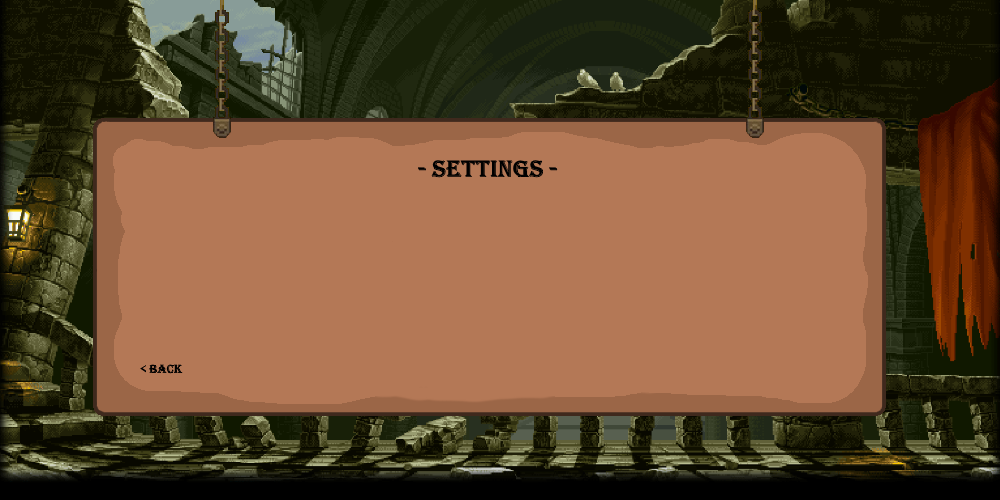
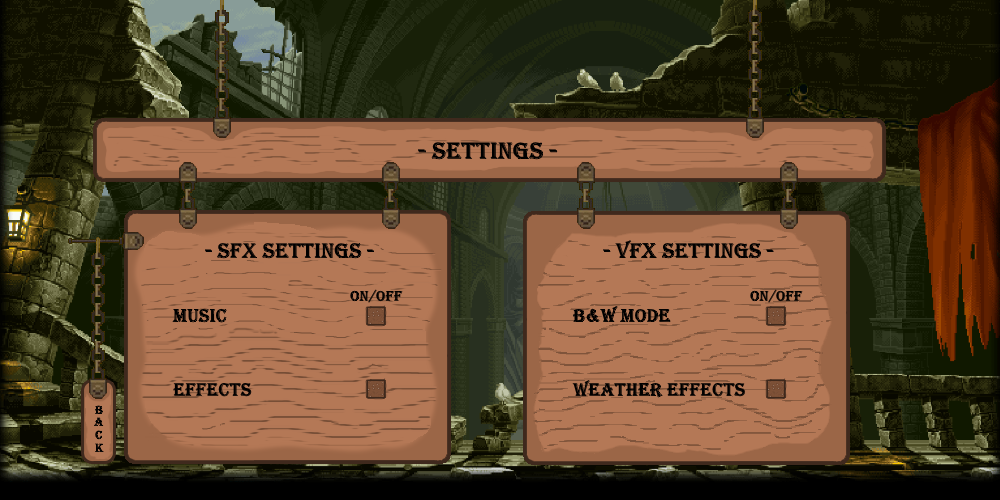
Images: Settings menu en losse settings knoppen Code: Codering voor terug knop in settings menu + preloaden images

diff --git a/script.js b/script.js
@@ -279,7 +279,7 @@ function setup() {
 
   if (localStorage.getItem('player_height') != null){
     saved_x = Math.floor(localStorage.getItem('player_x'))
-    saved_height = localStorage.getItem('player_height')
+    saved_height = 10900
   }
   
   
@@ -416,6 +416,10 @@ function preload(){
   menu1_3 = loadImage('images/menu/menu1_3.png')
   menu2 = loadImage('images/menu/menu2.png')
   menu2_1 = loadImage('images/menu/menu2_1.png')
+  menu2_2 = loadImage('images/menu/menu2_2.png')
+  menu2_3 = loadImage('images/menu/menu2_3.png')
+  menu2_4 = loadImage('images/menu/menu2_4.png')
+  menu2_5 = loadImage('images/menu/menu2_5.png')
   menu3 = loadImage('images/menu/menu3.png')
   menu3_1 = loadImage('images/menu/menu3_1.png')
   song = loadSound('sounds/of.mp3')
@@ -453,11 +457,23 @@ function draw() {
 
   if (game_state == "settings"){
     background(menu2);
-    if(mouseX > 130 && mouseX < 190){
-      if(mouseY > 360 && mouseY < 375){
+    if(mouseX > 80 && mouseX < 115){
+      if(mouseY > 380 && mouseY < 465){
         background(menu2_1)
       }
     }
+   // if(music == "off"){
+    //  image(menu2_2, 0, 0);
+    //}
+   // if(sound_effects == "on"){
+      
+  //  }
+  //  if(bwmode == "on"){
+      
+ //   }
+//    if(weather_effects == "on"){
+      
+//    }
   }
 
   if (game_state == "credits"){
@@ -518,11 +534,18 @@ function mousePressed() {
       game_state = "startscreen"
     }
   }
-  if(mouseX > 130 && mouseX < 190 && game_state == "settings"){
-    if(mouseY > 360 && mouseY < 375){
+  if(mouseX > 80 && mouseX < 115 && game_state == "settings"){
+    if(mouseY > 380 && mouseY < 465){
       game_state = "startscreen"
     }
   }
+ // if(mouseX > 365 && mouseX < 385 && game_state == "settings"){
+   // if(mouseY > 305 && mouseY < 325){
+   //   music = "off"
+   // }else{
+  //    music = "on"
+  //  }
+ // }
 }
 
 function blockAnimation(){
@@ -607,6 +630,12 @@ function keyPressed(){
     game_state = "pause"
   } else if (game_state == "pause" && keyCode == 27){
     game_state = "game"
+  }
+  if (game_state == "settings" && keyCode == 27) {
+    game_state = "startscreen"
+  }
+  if (game_state == "credits" && keyCode == 27) {
+    game_state = "startscreen"
   }
 }
 
